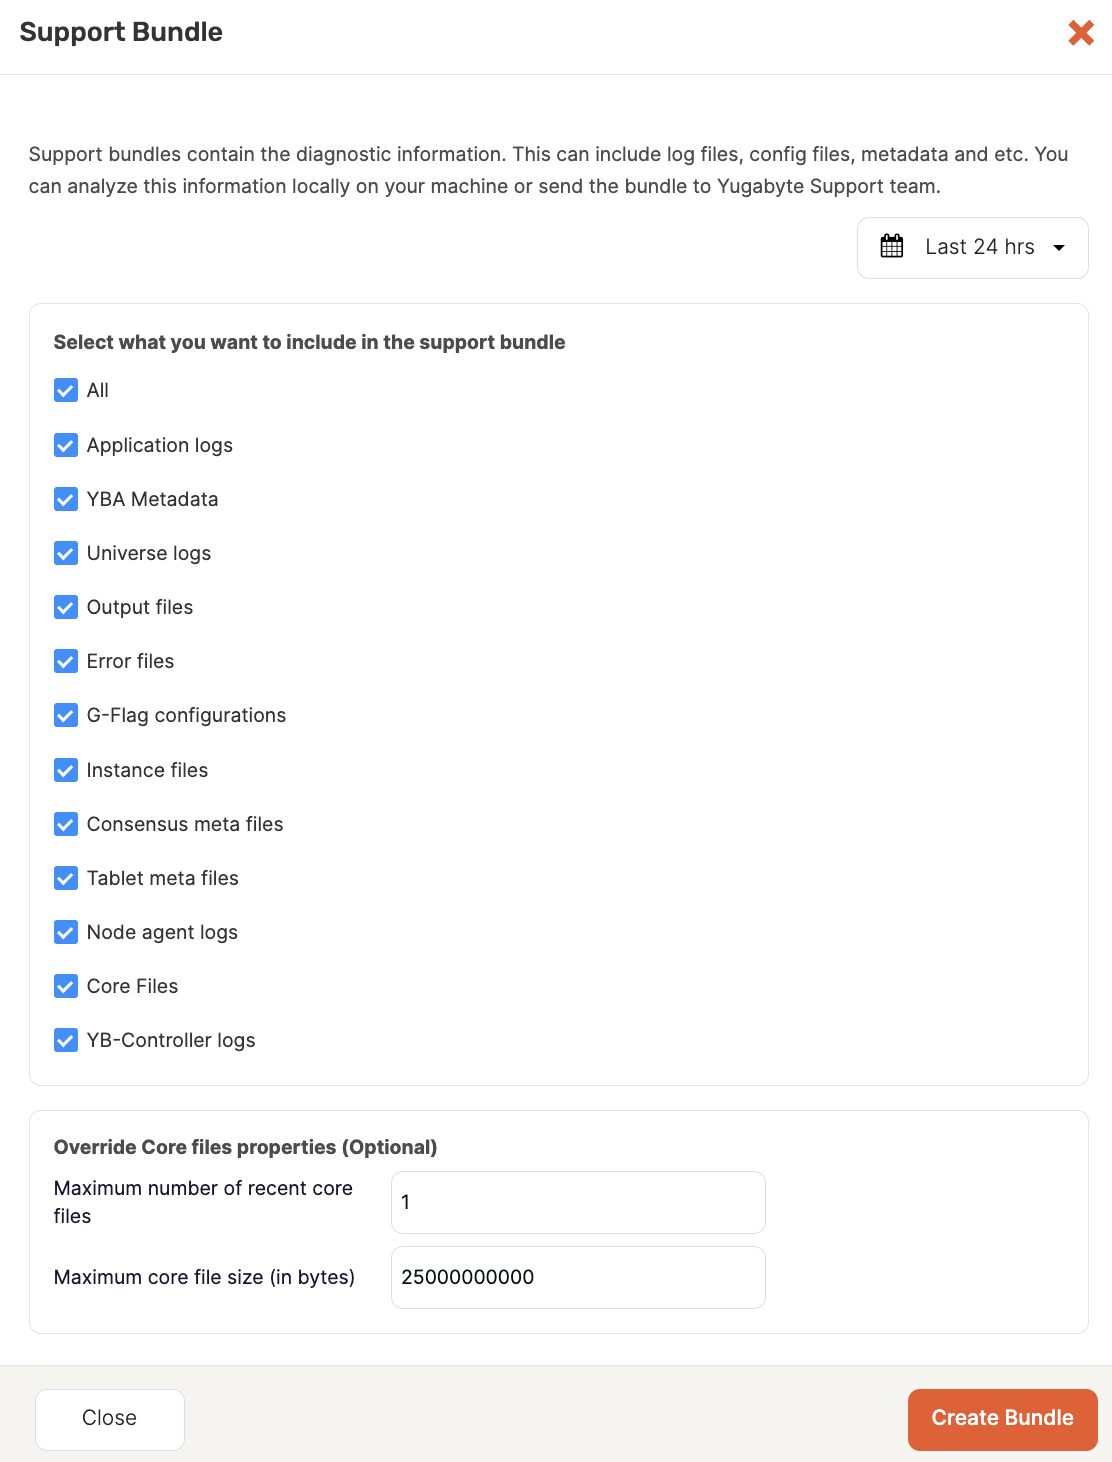
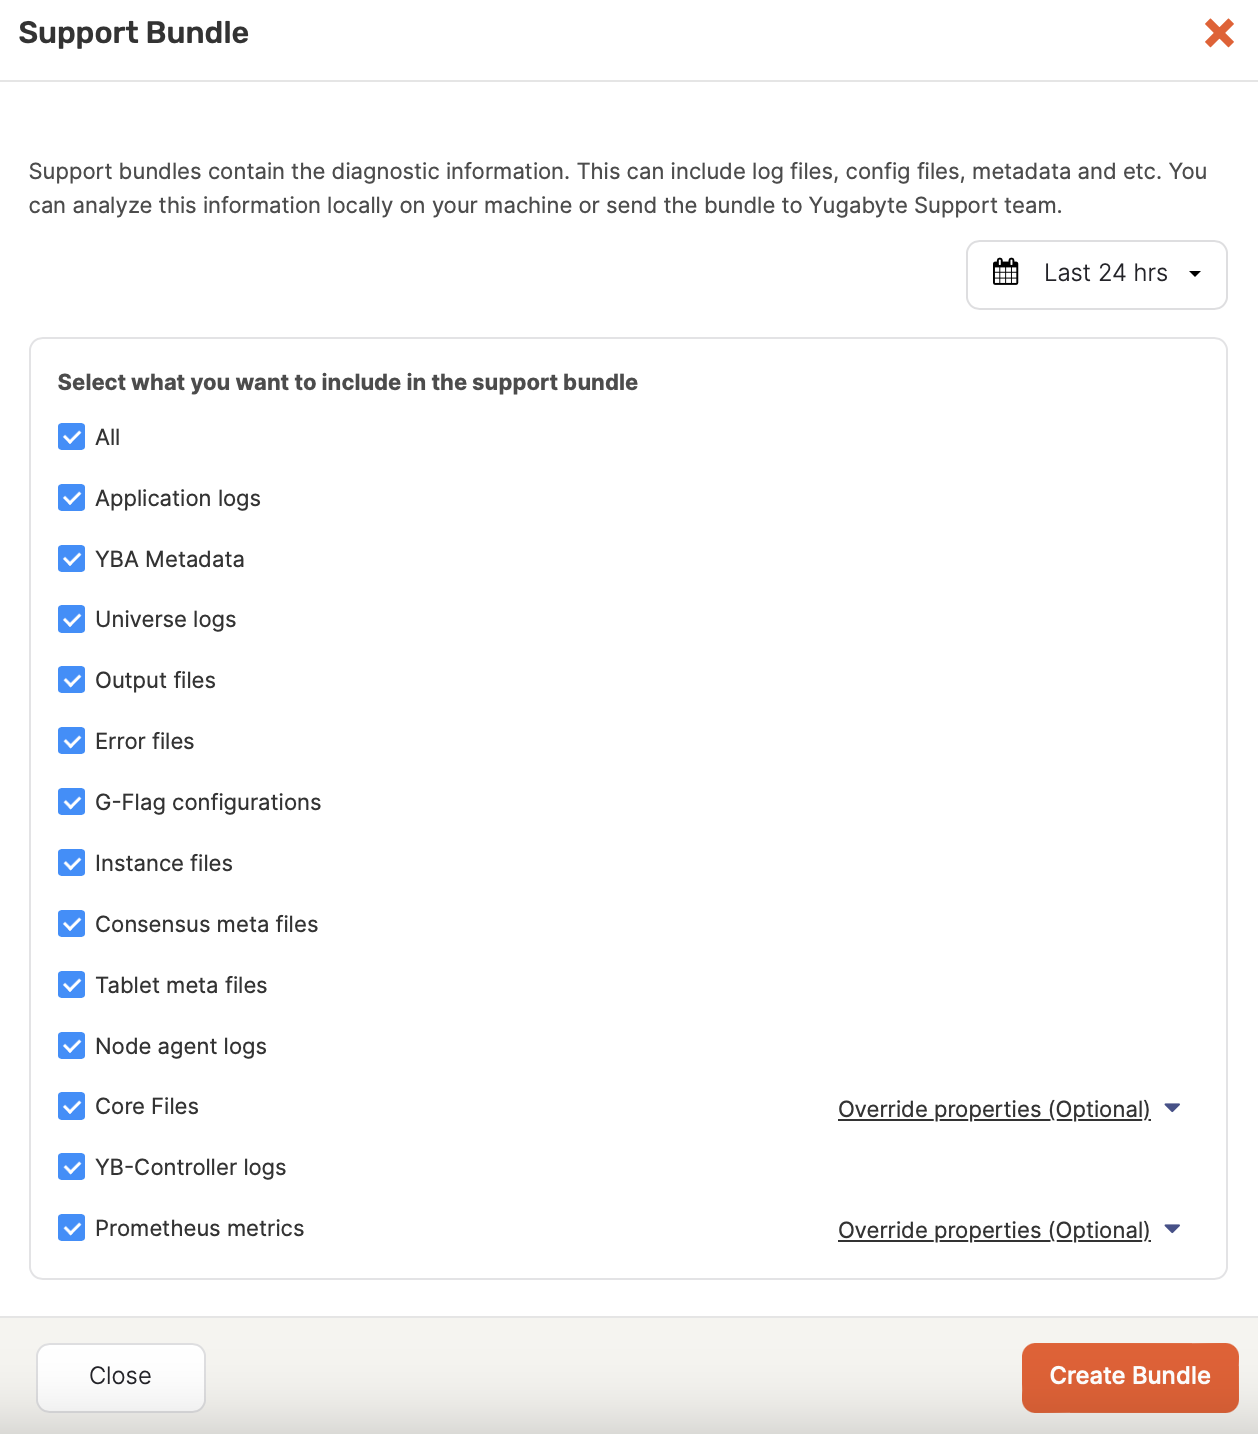
review comments

diff --git a/docs/content/preview/yugabyte-platform/troubleshoot/universe-issues.md b/docs/content/preview/yugabyte-platform/troubleshoot/universe-issues.md
@@ -143,10 +143,6 @@ This component collects a fingerprint of the YBA data. The metadata is collected
 - Users metadata
 - Instance_type metadata (sizing info, cores)
 - Customer_task table metadata
-- Audit logs
-- HA metadata
-- xCluster metadata
-- Tasks metadata
 
 An example of the YBA metadata directory structure is as follows:
 
@@ -194,24 +190,15 @@ Node agent logs generated in the YugabyteDB nodes (if node agent is enabled).
 
 #### Core Files
 
-The Core Files component collects all the core files and mitigates two issues that may happen when collecting files such as the following:
+If you select the Core Files option (the default), the support bundle will include all core files generated within the specified date range.
 
-- Files can be very large (for example, 200GB+)
-- There can be a huge number of files (for example, when a crashloop happens)
+When the Core Files option is selected, you can specify the following additional options:
 
-Core files are filtered by date. So, only the files created within the support bundle date range are collected.
+- Maximum number of recent core files: In some instances (for example, when a crashloop happens), there can be a large number of files. Specify the maximum number of files to include; YugabyteDB Anywhere collects the most recent files up to this value (default is 1).
 
-When you create a support bundle, if you select the Core Files component (by default, the component is selected), there are two optional Core files properties:
+- Maximum core file size: Specify the maximum file size for core files to be collected, in bytes. Only core files smaller than the specified size are collected (default is 25000000000 bytes (25GB)).
 
-- Maximum number of recent core files: YugabyteDB Anywhere (YBA) collects the most recent "N" number of files. "N" is set to a default value of collecting 1 file.
-
-- Maximum core file size: This field collects the recent core files only if the core file size is below the specified size limit. It is set to a default value of 25000000000 bytes (25GB).
-
-YBA also provides a runtime flag `yb.support_bundle.allow_cores_collection`, which is used to globally disable cores collection across any new support bundles generated on the platform. This flag can only be set by the SuperAdmin and is true by default.
-
-#### Manifest file
-
-This component includes a `manifest.json` file that contains the parameters that were used to create the support bundle.
+You can disable core collection globally by setting the global runtime configuration flag `yb.support_bundle.allow_cores_collection` to false. You must be a Super Admin to set global runtime configuration flags.
 
 #### YB-Controller logs
 
@@ -243,22 +230,6 @@ Note that YBA will only collect files if you have sufficient permissions to requ
   - Secrets.txt (Includes only secret names and not the actual value)
   - Statefulsets.yaml
   - Persistentvolumeclaims.yaml
-
-#### Prometheus metrics
-
-This component collects Prometheus metrics (Promdump collection) for a given universe. You can select the duration of collection and the metrics to collect from the Support Bundle UI for Prometheus metrics.
-
-A brief description of each metric is as follows:
-
-- Master Export: Enables or disables collection of the metrics for the Yugabyte Master process.
-- Node Export: Enables or disables collection of the `node_exporter` OS level metrics.
-- Platform: Enables or disables collection of the Platform metrics produced by YBA.
-- Prometheus: Enables or disables collection of the Prometheus metrics produced by the YBA Prometheus.
-- TServer Export: Enables or disables collection of the metrics for the Yugabyte Tablet server. These metrics are scraped from the TServer process, and mostly cover the storage layer.
-- YSQL Export: Enables or disables collection of the metrics for the Postgres-compatible YSQL query layer.
-- YCQL Export: Enables or disables collection of the metrics for the Cassandra-compatible YCQL query layer.
-
-The Prometheus dumps are stored in JSON files in the `support_bundle/YBA/promdump` directory.
 
 </details>
 

diff --git a/docs/content/stable/yugabyte-platform/troubleshoot/universe-issues.md b/docs/content/stable/yugabyte-platform/troubleshoot/universe-issues.md
@@ -140,6 +140,10 @@ This component collects a fingerprint of the YBA data. The metadata is collected
 - Users metadata
 - Instance_type metadata (sizing info, cores)
 - Customer_task table metadata
+- Audit logs
+- High availability metadata
+- xCluster metadata
+- Tasks metadata
 
 An example of the YBA metadata directory structure is as follows:
 
@@ -187,18 +191,19 @@ Node agent logs generated in the YugabyteDB nodes (if node agent is enabled).
 
 #### Core Files
 
-The Core Files component collects all the core files and mitigates two issues that may happen when collecting files such as the following:
+If you select the Core Files option (the default), the support bundle will include all core files generated within the specified date range.
 
-- Files can be very large (for example, 200GB+)
-- There can be a huge number of files (for example, when a crashloop happens)
+When the Core Files option is selected, you can specify the following additional options:
 
-When you create a support bundle, if you select the Core Files component (by default, the component is selected), there are two optional Core files properties:
+- Maximum number of recent core files: In some instances (for example, when a crashloop happens), there can be a large number of files. Specify the maximum number of files to include; YugabyteDB Anywhere collects the most recent files up to this value (default is 1).
 
-- Maximum number of recent core files: YugabyteDB Anywhere (YBA) collects the most recent "N" number of files. "N" is set to a default value of collecting 1 file.
+- Maximum core file size: Specify the maximum file size for core files to be collected, in bytes. Only core files smaller than the specified size are collected (default is 25000000000 bytes (25GB)).
 
-- Maximum core file size: This field collects the recent core files only if the core file size is below the specified size limit. It is set to a default value of 25000000000 bytes (25GB).
+You can disable core collection globally by setting the global runtime configuration flag `yb.support_bundle.allow_cores_collection` to false. You must be a Super Admin to set global runtime configuration flags.
 
-YBA also provides a runtime flag `yb.support_bundle.allow_cores_collection`, which is used to globally disable cores collection across any new support bundles generated on the platform. This flag can only be set by the SuperAdmin and is true by default.
+#### Manifest file
+
+The `manifest.json` file, which contains the parameters that were used to create the support bundle.
 
 #### YB-Controller logs
 
@@ -230,6 +235,22 @@ Note that YBA will only collect files if you have sufficient permissions to requ
   - Secrets.txt (Includes only secret names and not the actual value)
   - Statefulsets.yaml
   - Persistentvolumeclaims.yaml
+
+#### Prometheus metrics
+
+The Prometheus metrics for the selected universe. You can customize the timeframe and the metrics to collect.
+
+You can include the following metrics with the support bundle:
+
+- Master Export - YB-Master metrics.
+- Node Export - node_exporter OS level metrics.
+- Platform - YugabyteDB Anywhere metrics.
+- Prometheus - YugabyteDB Anywhere Prometheus metrics.
+- TServer Export - YB-TServer metrics; these are scraped from the TServer processes, and mostly cover the storage layer.
+- YSQL Export - YSQL query layer metrics.
+- YCQL Export - YCQL query layer metrics.
+
+The Prometheus metrics are stored in JSON files in the `support_bundle/YBA/promdump` directory.
 
 </details>
 

diff --git a/docs/content/v2024.2/yugabyte-platform/troubleshoot/universe-issues.md b/docs/content/v2024.2/yugabyte-platform/troubleshoot/universe-issues.md
@@ -140,6 +140,10 @@ This component collects a fingerprint of the YBA data. The metadata is collected
 - Users metadata
 - Instance_type metadata (sizing info, cores)
 - Customer_task table metadata
+- Audit logs
+- High availability metadata
+- xCluster metadata
+- Tasks metadata
 
 An example of the YBA metadata directory structure is as follows:
 
@@ -187,18 +191,19 @@ Node agent logs generated in the YugabyteDB nodes (if node agent is enabled).
 
 #### Core Files
 
-The Core Files component collects all the core files and mitigates two issues that may happen when collecting files such as the following:
+If you select the Core Files option (the default), the support bundle will include all core files generated within the specified date range.
 
-- Files can be very large (for example, 200GB+)
-- There can be a huge number of files (for example, when a crashloop happens)
+When the Core Files option is selected, you can specify the following additional options:
 
-When you create a support bundle, if you select the Core Files component (by default, the component is selected), there are two optional Core files properties:
+- Maximum number of recent core files: In some instances (for example, when a crashloop happens), there can be a large number of files. Specify the maximum number of files to include; YugabyteDB Anywhere collects the most recent files up to this value (default is 1).
 
-- Maximum number of recent core files: YugabyteDB Anywhere (YBA) collects the most recent "N" number of files. "N" is set to a default value of collecting 1 file.
+- Maximum core file size: Specify the maximum file size for core files to be collected, in bytes. Only core files smaller than the specified size are collected (default is 25000000000 bytes (25GB)).
 
-- Maximum core file size: This field collects the recent core files only if the core file size is below the specified size limit. It is set to a default value of 25000000000 bytes (25GB).
+You can disable core collection globally by setting the global runtime configuration flag `yb.support_bundle.allow_cores_collection` to false. You must be a Super Admin to set global runtime configuration flags.
 
-YBA also provides a runtime flag `yb.support_bundle.allow_cores_collection`, which is used to globally disable cores collection across any new support bundles generated on the platform. This flag can only be set by the SuperAdmin and is true by default.
+#### Manifest file
+
+The `manifest.json` file, which contains the parameters that were used to create the support bundle.
 
 #### YB-Controller logs
 
@@ -230,6 +235,22 @@ Note that YBA will only collect files if you have sufficient permissions to requ
   - Secrets.txt (Includes only secret names and not the actual value)
   - Statefulsets.yaml
   - Persistentvolumeclaims.yaml
+
+#### Prometheus metrics
+
+The Prometheus metrics for the selected universe. You can customize the timeframe and the metrics to collect.
+
+You can include the following metrics with the support bundle:
+
+- Master Export - YB-Master metrics.
+- Node Export - node_exporter OS level metrics.
+- Platform - YugabyteDB Anywhere metrics.
+- Prometheus - YugabyteDB Anywhere Prometheus metrics.
+- TServer Export - YB-TServer metrics; these are scraped from the TServer processes, and mostly cover the storage layer.
+- YSQL Export - YSQL query layer metrics.
+- YCQL Export - YCQL query layer metrics.
+
+The Prometheus metrics are stored in JSON files in the `support_bundle/YBA/promdump` directory.
 
 </details>
 
